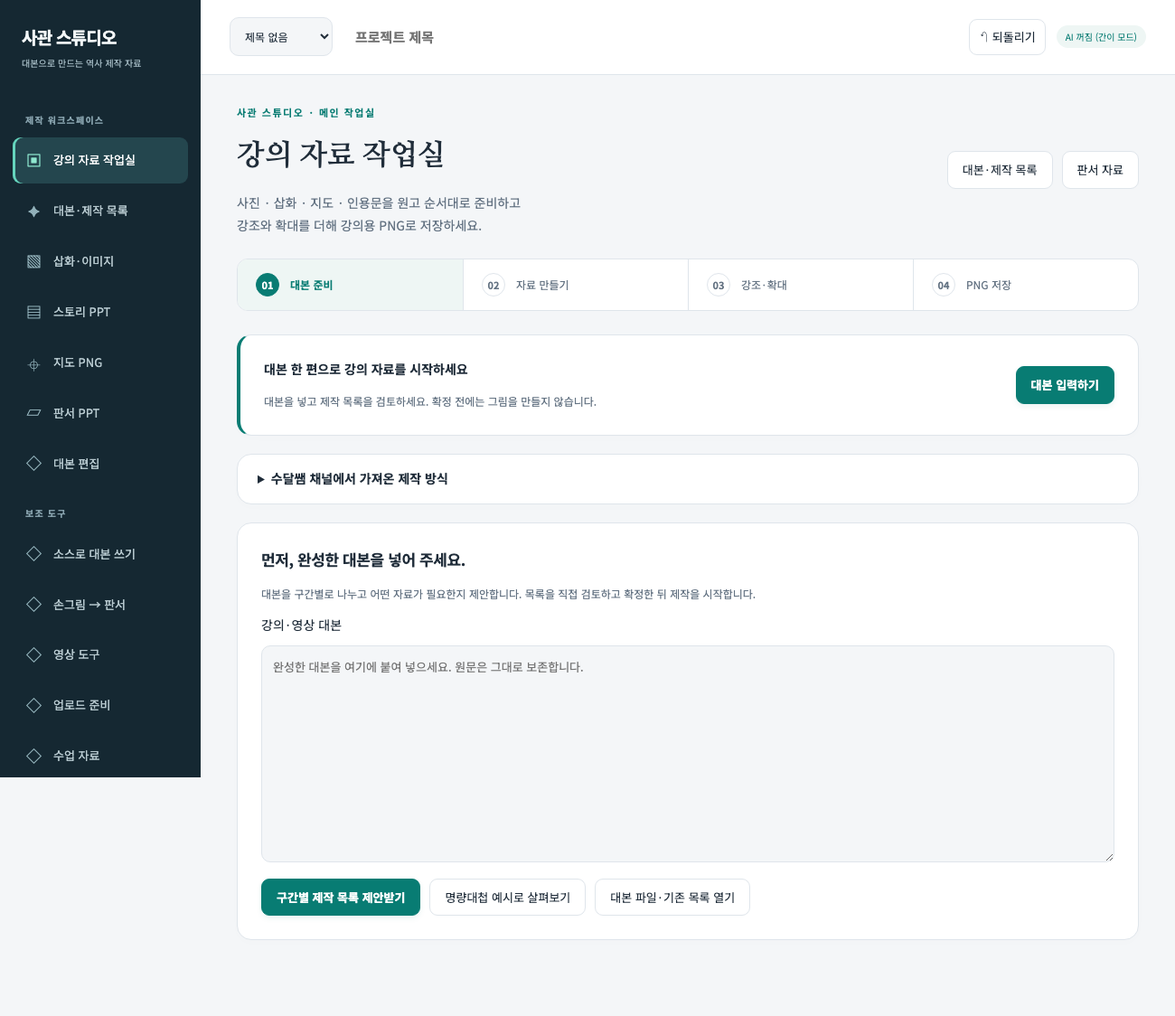
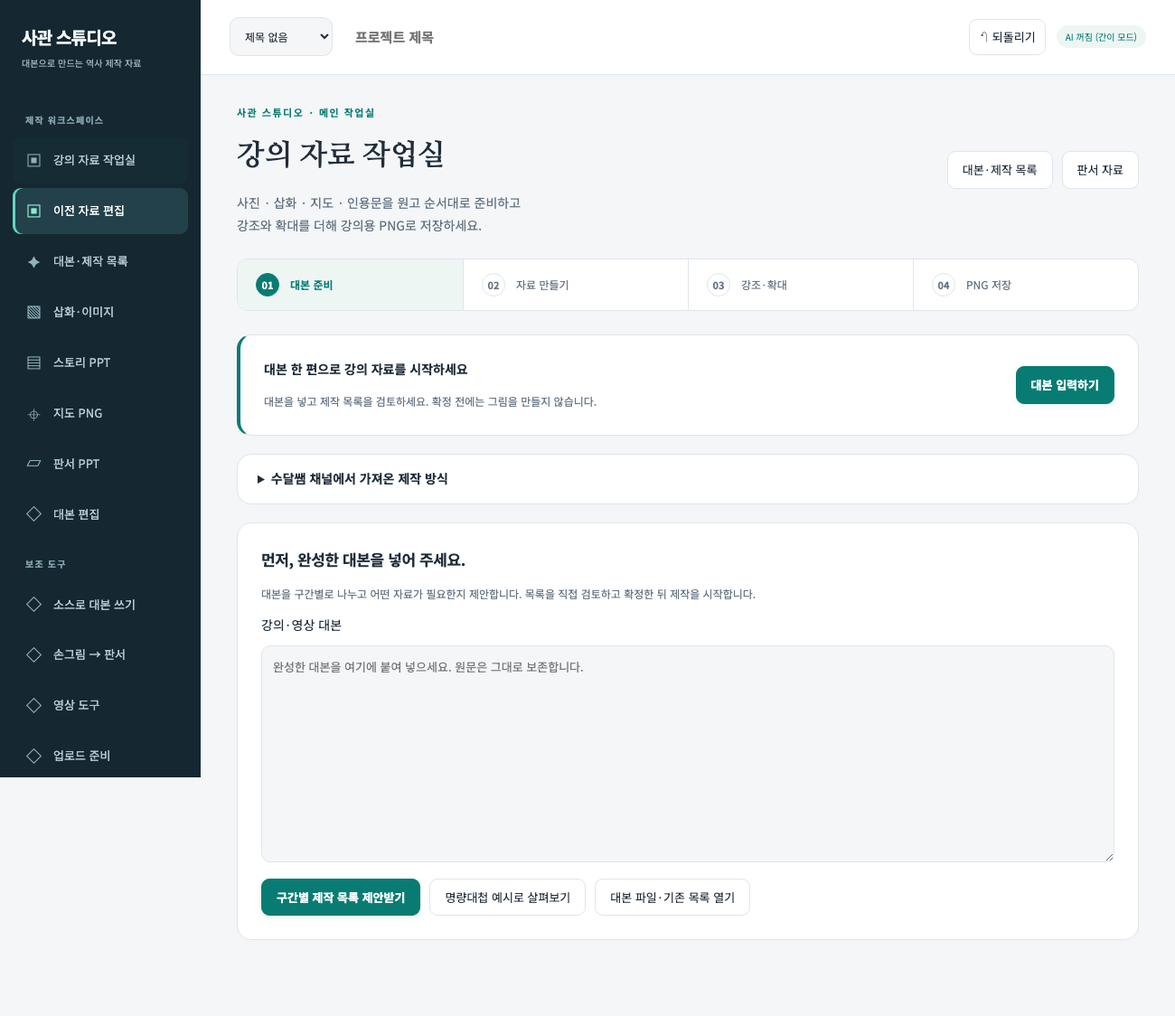
Build semantic scene planning and human-reviewed slide studio

diff --git a/assets/scene-studio-ui.js b/assets/scene-studio-ui.js
@@ -1,0 +1,73 @@
+(function(){
+  'use strict';
+  var HS=window.HS,$=HS.$,selected=0,lastProject=null,busy=false,jobId='',cancelled=false,token='',previewRevision=0;
+  function plan(){return HS.studioDraft();}function current(){return plan().slides[selected];}
+  function message(s,error){$('studio-status').textContent=s;$('studio-status').classList.toggle('err',!!error);}
+  function save(){HS.changed('studio');}
+  function safe(fn){Promise.resolve().then(fn).catch(function(e){message(e.message,true);});}
+  function draw(){
+    var n=++previewRevision,p=plan(),s=current(),c=$('studio-canvas'),x=c.getContext('2d');x.fillStyle='#14242d';x.fillRect(0,0,1920,1080);
+    if(!s)return;
+    HS.studioCanvas(p,s).then(function(result){if(n!==previewRevision||plan()!==p||current()!==s)return;x.drawImage(result,0,0);$('studio-preview-note').textContent=HS.studioReviewed(p,s)?'검토 완료 · 이 화면이 한 장의 슬라이드로 저장됩니다.':'미리보기를 확인하고 검토 완료를 눌러 주세요.';}).catch(function(e){if(n!==previewRevision)return;x.fillStyle='#d7e5e9';x.font='36px sans-serif';x.textAlign='center';x.fillText('장면 내용을 채우면 슬라이드가 나타납니다.',960,540);$('studio-preview-note').textContent=e.message;});
+  }
+  function overview(){
+    var p=plan(),done=p.slides.filter(function(s){return HS.studioReviewed(p,s);}).length;
+    $('studio-progress').textContent=p.mode==='input'?'1. 대본 분석':p.mode==='review'?'2. 장면 구분 검토 · '+p.slides.length+'장면':'3. 장면 만들기 · 검토 완료 '+done+' / '+p.slides.length;
+    $('studio-png-all').disabled=busy||p.mode!=='compose'||done!==p.slides.length||!done;$('studio-ppt-all').disabled=$('studio-png-all').disabled;
+    $('studio-outline').innerHTML=p.slides.map(function(s,i){return '<button type="button" class="btn" data-studio-scene="'+i+'"'+(selected===i?' aria-current="true"':'')+'><b>'+String(i+1).padStart(2,'0')+'. '+HS.esc(s.title)+'</b><small>'+({text:'글',board:'판서',image:'이미지'}[s.type])+' · '+(HS.studioReviewed(p,s)?'검토 완료':HS.studioProblem(s)?'내용 필요':'검토 대기')+'</small></button>';}).join('');
+    if(current())$('studio-review-state').textContent=HS.studioReviewed(p,current())?'✓ 검토 완료':'○ 검토 대기 · 내용을 수정하면 다시 검토해야 합니다.';
+  }
+  HS.renderSceneStudio=function(){
+    if(lastProject!==HS.project){selected=0;lastProject=HS.project;}var p=plan();selected=Math.max(0,Math.min(selected,p.slides.length-1));
+    $('studio-fields').disabled=busy;$('studio-cancel').hidden=!busy||!jobId;$('studio-input').hidden=p.mode!=='input';$('studio-work').hidden=p.mode==='input';
+    $('studio-script').value=p.script;$('studio-method').textContent=p.method;$('studio-return').hidden=!p.slides.length||p.script!==p.analyzedScript;
+    $('studio-boundaries').hidden=p.mode!=='review';$('studio-editor').hidden=p.mode!=='compose';$('studio-confirm-plan').hidden=p.mode!=='review';$('studio-reopen-plan').hidden=p.mode!=='compose';
+    overview();if(!p.slides.length){previewRevision++;return;}var s=current();
+    $('studio-source').open=p.mode==='review';$('studio-original').value=p.script.slice(s.start,s.end);$('studio-reason').textContent=s.reason;
+    $('studio-scene-title').value=s.title;$('studio-type').value=s.type;$('studio-content').value=s.content;$('studio-prompt').value=s.prompt;$('studio-credit').value=s.credit;
+    $('studio-content-label').hidden=s.type==='image';$('studio-image-editor').hidden=s.type!=='image';$('studio-content-help').textContent=s.type==='board'?'줄마다 판서 항목을 쓰세요. *핵심어는 노란색, !주의는 분홍색, -는 들여쓰기입니다.':'슬라이드에 보여 줄 핵심 문장을 직접 다듬어 주세요. 원고 전체는 발표자 노트에 보존됩니다.';
+    $('studio-prev').disabled=selected===0;$('studio-next').disabled=selected===p.slides.length-1;$('studio-merge').disabled=selected===p.slides.length-1;
+    $('studio-candidates').innerHTML=(s.candidates||[]).map(function(im,i){return '<button type="button" class="btn" data-studio-candidate="'+i+'"><img src="'+HS.esc(im.image)+'" alt="이전 그림 '+(i+1)+'">이 그림으로 복원</button>';}).join('');draw();
+  };
+  async function protectedChange(label,fn){var project=HS.project,p=plan(),before=JSON.stringify(p);await HS.snapshot(label,true);if(HS.project!==project||plan()!==p||JSON.stringify(p)!==before)throw new Error('저장 중 프로젝트나 내용이 바뀌었습니다. 다시 시도해 주세요.');fn();save();HS.renderSceneStudio();}
+  async function api(url,method,data){var r=await fetch(url,{method:method||'GET',headers:{'X-Studio-Token':token,'Content-Type':'application/json'},body:data?JSON.stringify(data):undefined}),v=await r.json();if(!r.ok)throw new Error(v.error||'연결 실패');return v;}
+  async function runCodex(kind,prompt){
+    if(location.protocol==='file:')throw new Error('Codex 분석·생성은 로컬 실행 앱에서 가능합니다. 사관 스튜디오 실행.command로 열어 주세요.');
+    var session=await fetch('/api/session');if(!session.ok)throw new Error('앱 실행 프로그램을 다시 시작해 주세요.');token=(await session.json()).token;
+    var st=await api('/api/status');if(!st.ready)throw new Error(st.message||'Codex 로그인 상태를 확인해 주세요.');if(cancelled)throw new Error('작업을 중단했습니다.');
+    var job=await api('/api/jobs','POST',{kind:kind,prompt:prompt});jobId=job.id;$('studio-cancel').hidden=false;
+    if(cancelled)await api('/api/jobs/'+jobId,'DELETE');
+    while(true){var result=await api('/api/jobs/'+jobId);message(result.message);if(result.state==='done')return result;if(result.state!=='running')throw new Error(result.message);await new Promise(function(r){setTimeout(r,1200);});}
+  }
+  async function job(fn){if(busy)return;busy=true;cancelled=false;HS.renderSceneStudio();message('작업을 준비하고 있습니다…');try{await fn();}catch(e){message(e.message,true);}finally{busy=false;jobId='';$('studio-cancel').hidden=true;HS.renderSceneStudio();}}
+  $('studio-script').oninput=function(){plan().script=this.value;save();$('studio-return').hidden=plan().script!==plan().analyzedScript;};
+  $('studio-import-script').onclick=function(){safe(async function(){var text=(HS.project.materials&&HS.project.materials.script)||HS.project.source;if(!text)throw new Error('기존 대본이 없습니다. 직접 붙여 넣어 주세요.');if(plan().script.trim()&&!confirm('현재 입력칸을 기존 프로젝트 대본으로 바꿀까요?'))return;await protectedChange('대본 불러오기 전',function(){plan().script=text;});});};
+  $('studio-sample').onclick=function(){safe(async function(){if(plan().script.trim()&&!confirm('입력칸을 명량대첩 예시로 바꿀까요?'))return;await protectedChange('예시 대본 입력 전',function(){plan().script=window.MATERIAL_SAMPLE;});});};
+  function analyze(ai){job(async function(){var project=HS.project,p=plan(),script=p.script,units=HS.studioUnits(script),before=JSON.stringify(p);await HS.snapshot('대본 장면 분석 전',true);
+    var result=ai?HS.studioAnalyzeResult(script,(await runCodex('analysis',JSON.stringify({units:units.map(function(u){return u.text;})}))).plan):HS.studioParagraphPlan(script);
+    if(cancelled||HS.project!==project||plan()!==p||JSON.stringify(p)!==before)throw new Error('분석 중 대본이나 프로젝트가 바뀌어 적용하지 않았습니다.');HS.project.studio=result;selected=0;save();message('장면을 제안했습니다. 원고 경계와 설명 단위를 검토한 뒤 장면 만들기로 전환하세요.');});}
+  $('studio-analyze').onclick=function(){analyze(true);};$('studio-paragraph').onclick=function(){analyze(false);};
+  $('studio-cancel').onclick=function(){cancelled=true;message('중단을 요청했습니다…');if(jobId)api('/api/jobs/'+jobId,'DELETE').catch(function(e){message(e.message,true);});};
+  $('studio-outline').onclick=function(e){var b=e.target.closest('[data-studio-scene]');if(b){selected=+b.dataset.studioScene;HS.renderSceneStudio();}};
+  $('studio-prev').onclick=function(){selected--;HS.renderSceneStudio();};$('studio-next').onclick=function(){selected++;HS.renderSceneStudio();};
+  $('studio-split').onclick=function(){var cut=$('studio-original').selectionStart;safe(function(){return protectedChange('장면 나누기 전',function(){HS.studioSplit(plan(),selected,cut);});});};
+  $('studio-merge').onclick=function(){safe(function(){return protectedChange('장면 합치기 전',function(){HS.studioMerge(plan(),selected);});});};
+  $('studio-confirm-plan').onclick=function(){safe(function(){return protectedChange('장면 만들기 전환 전',function(){HS.studioValidate(plan());plan().mode='compose';});});};
+  $('studio-reopen-plan').onclick=function(){safe(function(){return protectedChange('장면 구분 재검토 전',function(){plan().mode='review';});});};
+  $('studio-edit-script').onclick=function(){safe(function(){return protectedChange('대본 다시 입력 전',function(){plan().backMode=plan().mode;plan().mode='input';});});};
+  $('studio-return').onclick=function(){if(plan().slides.length&&plan().script===plan().analyzedScript){plan().mode=plan().backMode||'review';save();HS.renderSceneStudio();}};
+  ['scene-title','content','prompt','credit'].forEach(function(k){$('studio-'+k).oninput=function(){var s=current();s[k==='scene-title'?'title':k]=this.value;s.reviewed='';save();overview();draw();};});
+  $('studio-type').onchange=function(){current().type=this.value;current().reviewed='';save();HS.renderSceneStudio();};
+  function attach(s,image){if(s.image){s.candidates=s.candidates||[];s.candidates.unshift({image:s.image,prompt:s.imagePrompt});s.candidates=s.candidates.slice(0,3);}s.image=image;s.imagePrompt=s.prompt;s.reviewed='';}
+  $('studio-generate').onclick=function(){job(async function(){var project=HS.project,p=plan(),s=current(),before=JSON.stringify(s);HS.studioValidate(p);if(p.mode!=='compose')throw new Error('장면 구분을 먼저 확정해 주세요.');if(!s.prompt.trim())throw new Error('이미지 제작 지시를 넣어 주세요.');await HS.snapshot('장면 이미지 생성 전',true);
+    var result=await runCodex('image','Educational historical illustration for exactly one slide. No text or labels. Do not invent historical details as facts.\n'+JSON.stringify({scene:s.title,narration:p.script.slice(s.start,s.end),visualDescription:s.prompt}));await HS.loadImage(result.image);
+    $('studio-result-link').href=result.image;$('studio-result-link').hidden=false;
+    if(cancelled||HS.project!==project||plan()!==p||JSON.stringify(s)!==before)throw new Error('제작 중 프로젝트나 장면이 바뀌었습니다. 완성 그림은 별도 PNG 링크로 저장하세요.');attach(s,result.image);s.credit='AI 재현 삽화 · 역사적 세부 확인 필요';save();message('이 장면의 그림을 만들었습니다. 역사적 표현을 확인한 뒤 검토 완료를 누르세요.');});};
+  $('studio-image-file').onchange=function(){var f=this.files[0];this.value='';if(!f)return;job(async function(){if(!/^image\/(png|jpeg|webp)$/.test(f.type)||f.size>20*1024*1024)throw new Error('PNG·JPG·WebP 파일을 20MB 이하로 넣어 주세요.');var project=HS.project,p=plan(),s=current(),before=JSON.stringify(s);var image=await HS.shrinkImage(await HS.readFile(f),2400,'image/png');if(HS.project!==project||plan()!==p||JSON.stringify(s)!==before)throw new Error('불러오는 동안 장면이 바뀌었습니다.');await protectedChange('장면 사진 변경 전',function(){attach(s,image);s.credit='';});message('사진을 넣었습니다. 출처를 기록하고 검토해 주세요.');});};
+  $('studio-candidates').onclick=function(e){var b=e.target.closest('[data-studio-candidate]');if(!b)return;safe(function(){return protectedChange('장면 이전 그림 복원 전',function(){var s=current(),old=s.candidates[+b.dataset.studioCandidate];s.prompt=old.prompt;attach(s,old.image);s.credit='출처 다시 확인 필요';});});};
+  $('studio-review-done').onclick=function(){job(async function(){var p=plan(),s=current(),before=HS.studioFingerprint(p,s);await HS.studioCanvas(p,s);if(plan()!==p||current()!==s||HS.studioFingerprint(p,s)!==before)throw new Error('검토 중 자료가 바뀌었습니다.');s.reviewed=before;save();var next=p.slides.findIndex(function(item,i){return i>selected&&!HS.studioReviewed(p,item);});if(next<0)next=p.slides.findIndex(function(item){return !HS.studioReviewed(p,item);});if(next>=0)selected=next;message(next>=0?'검토 완료로 표시하고 다음 미검토 장면으로 이동했습니다.':'모든 장면 검토가 끝났습니다. 슬라이드를 저장하세요.');});};
+  $('studio-png-one').onclick=function(){job(async function(){var p=plan(),s=current(),i=selected;if(!HS.studioReviewed(p,s))throw new Error('현재 장면을 먼저 검토 완료해 주세요.');var c=await HS.studioCanvas(p,JSON.parse(JSON.stringify(s))),name=String(i+1).padStart(2,'0')+' '+s.title.replace(/[\\/:*?"<>|]/g,'')+'.png';HS.download(name,await HS.teachingBlob(c));message('슬라이드 PNG를 저장했습니다.');});};
+  $('studio-png-all').onclick=function(){job(async function(){await HS.exportStudio('png');message('한 장면당 한 PNG로 저장했습니다.');});};$('studio-ppt-all').onclick=function(){job(async function(){await HS.exportStudio('ppt');message('한 장면당 한 슬라이드로 저장했습니다. 원고는 발표자 노트에 있습니다.');});};
+  HS.onChange(function(what){if(what==='all')return;if(what==='studio'&&$('tab-studio').classList.contains('on'))overview();});
+  window.addEventListener('beforeunload',function(e){if(busy){e.preventDefault();e.returnValue='';}});
+})();

diff --git a/assets/scene-studio.js b/assets/scene-studio.js
@@ -1,0 +1,70 @@
+/* 대본 원문 → 의미 단위 검토 → 장면마다 한 슬라이드 → 사람 검토. */
+(function(){
+  'use strict';
+  var HS=window.HS;
+  function copy(x){return JSON.parse(JSON.stringify(x));}
+  function id(){return 'slide-'+Date.now().toString(36)+'-'+Math.random().toString(36).slice(2,9);}
+  HS.studioDraft=function(){return HS.project.studio||(HS.project.studio={script:'',analyzedScript:'',method:'',mode:'input',slides:[]});};
+  HS.studioUnits=function(script){
+    if(typeof script!=='string'||!script.trim()||script.length>12000)throw new Error('대본은 1~12,000자로 넣어 주세요. 긴 대본은 편별로 나누어 주세요.');
+    var units=[],start=0,re=/[.!?。]+[”’"']?(?:\s+|$)|\n\s*\n/g,m;
+    while((m=re.exec(script))){var end=m.index+m[0].length;if(script.slice(start,end).trim()){units.push({start:start,end:end,text:script.slice(start,end)});start=end;}}
+    if(start<script.length){if(script.slice(start).trim())units.push({start:start,end:script.length,text:script.slice(start)});else if(units.length){units[units.length-1].end=script.length;units[units.length-1].text=script.slice(units[units.length-1].start);}}
+    if(units.length>500)throw new Error('문장이 너무 많습니다. 대본을 나누어 주세요.');return units;
+  };
+  function slide(start,end,title,reason,type,content,prompt){return {id:id(),start:start,end:end,title:title,reason:reason,type:type,content:content||'',prompt:prompt||'',image:null,imagePrompt:'',credit:'',reviewed:'',candidates:[]};}
+  HS.studioAnalyzeResult=function(script,result){
+    var units=HS.studioUnits(script),last=0;
+    if(!result||!Array.isArray(result.scenes)||!result.scenes.length||result.scenes.length>80)throw new Error('분석 결과의 장면 목록을 확인할 수 없습니다.');
+    var slides=result.scenes.map(function(g){
+      if(!Number.isInteger(g.end)||g.end<=last||g.end>units.length||!['text','board','image'].includes(g.type)||typeof g.title!=='string'||!g.title.trim()||g.title.length>100||typeof g.reason!=='string'||g.reason.length>500||typeof g.content!=='string'||g.content.length>1200||typeof g.prompt!=='string'||g.prompt.length>2000)throw new Error('분석 결과의 범위나 형식이 올바르지 않습니다. 원문은 변경하지 않았습니다.');
+      var s=slide(units[last].start,units[g.end-1].end,g.title,g.reason,g.type,g.content,g.prompt);last=g.end;return s;
+    });
+    if(last!==units.length)throw new Error('분석 결과에 빠진 원고가 있습니다. 다시 분석해 주세요.');
+    return {script:script,analyzedScript:script,method:'Codex 의미 분석 · 사람 검토 필요',mode:'review',slides:slides};
+  };
+  HS.studioParagraphPlan=function(script){
+    HS.studioUnits(script);var start=0,slides=[],re=/\n\s*\n/g,m;
+    function add(end){var text=script.slice(start,end);if(text.trim()){slides.push(slide(start,end,text.trim().split(/[.!?。\n]/)[0].slice(0,60),'문단 경계로 나눈 초안입니다. 한 가지 설명인지 직접 확인하세요.','text','',''));start=end;}}
+    while((m=re.exec(script)))add(m.index+m[0].length);add(script.length);
+    if(start<script.length&&slides.length)slides[slides.length-1].end=script.length;
+    if(slides.length>80)throw new Error('80장면 이하로 대본을 나누어 주세요.');
+    return {script:script,analyzedScript:script,method:'문단 기준 초안 · AI 의미 분석 아님',mode:'review',slides:slides};
+  };
+  HS.studioValidate=function(p){
+    if(!p||p.script!==p.analyzedScript||!p.slides.length)throw new Error('바뀐 대본을 다시 분석해 주세요.');
+    var end=0;p.slides.forEach(function(s){if(s.start!==end||s.end<=s.start||s.end>p.script.length||!p.script.slice(s.start,s.end).trim())throw new Error('장면 범위에 누락 또는 겹침이 있습니다.');end=s.end;});
+    if(end!==p.script.length)throw new Error('장면에 포함되지 않은 원고가 있습니다.');return true;
+  };
+  HS.studioSplit=function(p,i,offset){
+    HS.studioValidate(p);if(p.mode!=='review')throw new Error('장면 구분 검토 모드에서 나누세요.');if(p.slides.length>=80)throw new Error('장면은 80개까지 만들 수 있습니다.');
+    var s=p.slides[i],cut=s.start+offset;if(!Number.isInteger(offset)||cut<=s.start||cut>=s.end||!p.script.slice(s.start,cut).trim()||!p.script.slice(cut,s.end).trim()||/[\uD800-\uDBFF]/.test(p.script[cut-1]))throw new Error('원고에서 앞뒤 내용이 남는 위치에 커서를 놓으세요.');
+    var a=slide(s.start,cut,s.title,'사람이 나눈 장면','text','',''),b=slide(cut,s.end,s.title+' (계속)','사람이 나눈 장면','text','','');p.slides.splice(i,1,a,b);
+  };
+  HS.studioMerge=function(p,i){HS.studioValidate(p);if(p.mode!=='review'||!p.slides[i+1])throw new Error('검토 모드에서 다음 장면이 있을 때 합칠 수 있습니다.');var a=p.slides[i],b=p.slides[i+1];p.slides.splice(i,2,slide(a.start,b.end,a.title,'사람이 합친 장면','text','',''));};
+  HS.studioFingerprint=function(p,s){var str=JSON.stringify([p.script.slice(s.start,s.end),s.title,s.type,s.content,s.prompt,s.image,s.credit]),h=2166136261;for(var i=0;i<str.length;i++)h=Math.imul(h^str.charCodeAt(i),16777619);return (h>>>0).toString(16)+':'+str.length;};
+  HS.studioReviewed=function(p,s){return !!s.reviewed&&s.reviewed===HS.studioFingerprint(p,s);};
+  HS.studioProblem=function(s){if(!s.title.trim())return '슬라이드 제목을 넣으세요.';if(s.type==='image'){if(!s.image)return '이 장면의 이미지를 생성하거나 불러오세요.';if(s.imagePrompt!==s.prompt)return '이미지 제작 지시가 바뀌었습니다. 다시 생성하거나 사진을 불러오세요.';}else if(!s.content.trim())return '슬라이드에 넣을 글이나 판서 내용을 채우세요.';return '';};
+  function textBlock(ctx,text,x,y,w,h,size,color){var lines;do{ctx.font='500 '+size+'px "Noto Sans KR",sans-serif';lines=HS.wrap(ctx,text,w);if(lines.length*size*1.5<=h)break;size-=2;}while(size>=24);if(size<24)throw new Error('한 슬라이드에 글이 너무 많습니다. 내용을 줄이거나 장면을 나누세요.');ctx.fillStyle=color;ctx.textBaseline='top';ctx.textAlign='left';lines.forEach(function(line,i){ctx.fillText(line,x,y+i*size*1.5);});}
+  HS.studioCanvas=function(p,s){
+    var problem=HS.studioProblem(s);if(problem)return Promise.reject(new Error(problem));var c=document.createElement('canvas');c.width=1920;c.height=1080;var x=c.getContext('2d');
+    if(s.type==='board')HS.drawBoardBg(x,1920,1080,'board',s.id);else{x.fillStyle='#14242d';x.fillRect(0,0,1920,1080);}
+    try{textBlock(x,s.title,110,85,1700,180,66,s.type==='board'?'#f6e27a':'#ffffff');}catch(e){return Promise.reject(e);}
+    var work=Promise.resolve();
+    if(s.type==='image')work=HS.loadImage(s.image).then(function(im){var q=Math.min(1700/im.width,700/im.height);x.drawImage(im,110+(1700-im.width*q)/2,275+(700-im.height*q)/2,im.width*q,im.height*q);});
+    else try{
+      if(s.type==='board'){
+        var rows=s.content.split('\n').map(HS.parseBoardLine),plain=rows.map(function(r){return r.text;}).join('\n'),size=54,lines;
+        do{x.font='500 '+size+'px "Noto Sans KR",sans-serif';lines=rows.map(function(r){return HS.wrap(x,r.text,1640-Math.min(r.indent,4)*40);});if(lines.reduce(function(n,a){return n+a.length;},0)*size*1.5<=680)break;size-=2;}while(size>=24);
+        if(size<24)throw new Error('판서가 한 장에 너무 많습니다. 내용을 줄이거나 장면을 나누세요.');
+        var y=290;x.textBaseline='top';rows.forEach(function(r,i){x.fillStyle=HS.CHALK[r.color]||'#fff';lines[i].forEach(function(line){x.fillText(line,130+Math.min(r.indent,4)*40,y);y+=size*1.5;});});
+      }else textBlock(x,s.content,110,290,1700,680,54,'#ecf3f5');
+    }catch(e){return Promise.reject(e);}
+    return work.then(function(){if(s.credit)textBlock(x,s.credit,110,1000,1700,45,26,'#bbcbd0');return c;});
+  };
+  HS.exportStudio=function(format,noDownload){
+    var p=copy(HS.studioDraft());try{HS.studioValidate(p);if(p.mode!=='compose'||p.slides.some(function(s){return !HS.studioReviewed(p,s);}))throw new Error('모든 장면을 검토 완료한 뒤 저장해 주세요.');}catch(e){return Promise.reject(e);}
+    var zip=new JSZip(),ppt=new window.PptxGenJS();ppt.layout='LAYOUT_WIDE';var report=[];
+    return p.slides.reduce(function(chain,s,i){return chain.then(function(){return HS.studioCanvas(p,s).then(function(c){var name=String(i+1).padStart(2,'0')+' '+s.title.replace(/[\\/:*?"<>|]/g,'').slice(0,60)+'.png';report.push({file:name,title:s.title,type:s.type,script:p.script.slice(s.start,s.end),credit:s.credit});if(format==='ppt'){var sl=ppt.addSlide();sl.addImage({data:c.toDataURL(),x:0,y:0,w:13.333333,h:7.5});sl.addNotes(p.script.slice(s.start,s.end)+'\n\n출처: '+s.credit);}else return HS.teachingBlob(c).then(function(b){zip.file(name,b);});});});},Promise.resolve()).then(function(){if(format==='ppt')return ppt.write({outputType:'blob'});zip.file('장면과 원고.json',JSON.stringify(report,null,2));return zip.generateAsync({type:'blob'});}).then(function(b){if(!noDownload)HS.download(format==='ppt'?'검토 완료 슬라이드.pptx':'검토 완료 슬라이드 PNG.zip',b);return b;});
+  };
+})();

diff --git a/index.html b/index.html
@@ -133,7 +133,8 @@ table.places input{ width:100%; padding:4px 6px; }
 </header>
 <nav id="tabs" aria-label="스튜디오 도구">
   <span class="nav-label">제작 워크스페이스</span>
-  <button data-tab="teaching" class="on">강의 자료 작업실</button>
+  <button data-tab="studio" class="on">강의 자료 작업실</button>
+  <button data-tab="teaching">이전 자료 편집</button>
   <button data-tab="materials">대본·제작 목록</button>
   <button data-tab="shots">삽화·이미지</button>
   <button data-tab="story">스토리 PPT</button>
@@ -149,6 +150,26 @@ table.places input{ width:100%; padding:4px 6px; }
   <button data-tab="settings">설정</button>
 </nav>
 <main>
+<section class="tab on" id="tab-studio">
+  <div class="studio-heading"><div><span class="hero-eyebrow">대본에서 한 장면씩 · 사람이 완성하는 슬라이드</span><h2>강의 자료 작업실</h2><p class="lead">의미 단위로 나누고, 한 장면을 한 슬라이드로.<br>글·판서·AI 이미지를 채우며 하나씩 검토합니다.</p></div><button class="btn" data-go="teaching">이전 자료 작업 열기</button></div>
+  <div class="card row studio-progress-bar"><strong id="studio-progress"></strong><button class="btn" id="studio-cancel" hidden>Codex 작업 중단</button><a id="studio-result-link" download="생성된 장면.png" hidden>최근 생성 그림 별도 PNG 저장</a></div>
+  <p id="studio-status" class="status" role="status" aria-live="polite"></p>
+  <fieldset id="studio-fields">
+    <div class="card" id="studio-input"><h3>1. 대본을 분석합니다</h3><p class="small">Codex가 설명 주제·사건·전환점을 보고 장면을 제안합니다. 원문은 바꾸지 않으며, 다음 단계에서 나누거나 합칠 수 있습니다.</p><label for="studio-script">완성 대본 · 최대 12,000자</label><textarea id="studio-script" maxlength="12000" placeholder="강의할 대본을 붙여 넣으세요."></textarea><div class="row"><button class="btn primary" id="studio-analyze">Codex로 의미 단위 분석</button><button class="btn" id="studio-paragraph">연결 없이 문단 초안 만들기</button><button class="btn" id="studio-import-script">기존 프로젝트 대본 가져오기</button><button class="btn" id="studio-sample">명량대첩 예시</button><button class="btn" id="studio-return" hidden>기존 장면으로 돌아가기</button></div><p class="small">Codex 분석·이미지 생성에는 로컬 앱과 ChatGPT 구독 로그인이 필요합니다. 문단 초안은 AI 의미 분석이 아니며 직접 경계를 검토해야 합니다.</p></div>
+    <div id="studio-work" hidden>
+      <div class="card row"><span id="studio-method" class="small"></span><button class="btn" id="studio-edit-script">대본 다시 분석</button><button class="btn" id="studio-reopen-plan">장면 구분 다시 검토</button><button class="btn primary" id="studio-confirm-plan">구분 확정 → 장면 만들기</button><button class="btn" id="studio-png-all">검토 완료 PNG 묶음</button><button class="btn" id="studio-ppt-all">슬라이드 PPT</button></div>
+      <div class="scene-studio-layout"><aside class="card studio-outline"><h3>장면 목록</h3><p class="small">장면 1개 = 슬라이드 1장</p><div id="studio-outline"></div></aside><div class="studio-main">
+        <article class="card"><div class="row"><button class="btn" id="studio-prev">← 이전 장면</button><button class="btn" id="studio-next">다음 장면 →</button><span id="studio-review-state" class="small"></span></div><label for="studio-scene-title">슬라이드 제목</label><input id="studio-scene-title" type="text" maxlength="100"><p id="studio-reason" class="small"></p><details id="studio-source"><summary>이 장면의 원고 보기 · 원문 보존</summary><label for="studio-original">장면에 해당하는 원고</label><textarea id="studio-original" readonly></textarea></details><div id="studio-boundaries"><p class="small">원고에서 나눌 위치를 눌러 커서를 놓으세요. 나누기·합치기는 해당 장면의 슬라이드 내용을 비우며, 변경 전 상태는 상단 되돌리기에 남습니다.</p><div class="row"><button class="btn" id="studio-split">커서 위치에서 나누기</button><button class="btn" id="studio-merge">다음 장면과 합치기</button></div></div></article>
+        <div id="studio-editor">
+          <article class="card"><h3>이 장면은 무엇으로 설명할까요?</h3><label>슬라이드 표현<select id="studio-type"><option value="text">글 · 핵심 문장</option><option value="board">판서 · 개념과 흐름</option><option value="image">이미지 · AI 삽화 또는 사진</option></select></label><label id="studio-content-label">슬라이드 내용<textarea id="studio-content" maxlength="1200" placeholder="이 장면에서 전달할 내용을 직접 다듬으세요."></textarea><span id="studio-content-help" class="small"></span></label>
+          <div id="studio-image-editor" hidden><label>이 장면의 이미지 제작 지시<textarea id="studio-prompt" maxlength="2000" placeholder="인물·시대·장소·구도·보여 줄 핵심을 적어 주세요."></textarea></label><div class="row"><button class="btn primary" id="studio-generate">이 장면만 Codex로 생성</button><label class="btn">사진·완성 그림 넣기<input type="file" id="studio-image-file" accept="image/png,image/jpeg,image/webp" hidden></label></div><p class="small">다른 장면은 자동 생성하지 않습니다. 다시 생성하면 이전 그림은 최대 3개까지 후보로 남깁니다. 제작 지시를 바꾸면 이미지를 다시 준비해야 합니다.</p><div id="studio-candidates"></div></div><label>출처·제작 메모<input id="studio-credit" type="text" maxlength="180" placeholder="인용 출처, 직접 촬영, AI 재현 여부 등을 적어 주세요."></label></article>
+          <article class="card studio-preview"><h3>슬라이드 미리보기</h3><canvas id="studio-canvas" width="1920" height="1080" aria-label="현재 장면의 한 장짜리 슬라이드"></canvas><p id="studio-preview-note" class="small"></p><p class="small">내용·역사적 표현·출처를 직접 확인하세요. 수정하면 검토 대기로 돌아갑니다.</p><div class="row"><button class="btn primary" id="studio-review-done">검토 완료하고 다음 장면</button><button class="btn" id="studio-png-one">현재 슬라이드 PNG</button></div></article>
+        </div>
+      </div></div>
+    </div>
+  </fieldset>
+</section>
+
 <section class="tab" id="tab-materials">
   <div class="material-hero"><div class="hero-copy"><span class="hero-eyebrow">HISTORY · CREATIVE STUDIO</span><h2>대본과 제작 목록 준비</h2><p class="lead">원고를 구간별로 나누고 자료 종류를 검토하세요.<br>확정한 자료는 강의 자료 작업실에서 다듬습니다.</p></div><div class="hero-art" aria-hidden="true"><div class="hero-sheet"><i></i><i></i><i></i><i></i><i></i></div><div class="hero-picture"></div></div></div>
   <ol class="workflow-path" aria-label="자료 제작 순서"><li id="workflow-input" aria-current="step"><b>01</b> 대본 입력</li><li id="workflow-review"><b>02</b> 목록 검토</li><li id="workflow-output"><b>03</b> 자료 제작</li></ol>
@@ -178,7 +199,7 @@ table.places input{ width:100%; padding:4px 6px; }
   <p id="material-status" class="status" role="status" aria-live="polite"></p>
 </section>
 
-<section class="tab on" id="tab-teaching">
+<section class="tab" id="tab-teaching">
   <div class="teaching-home-header"><div><span class="hero-eyebrow">사관 스튜디오 · 메인 작업실</span><h2>강의 자료 작업실</h2><p class="lead">사진 · 삽화 · 지도 · 인용문을 원고 순서대로 준비하고<br>강조와 확대를 더해 강의용 PNG로 저장하세요.</p></div><div class="row"><button class="btn" data-go="materials">대본·제작 목록</button><button class="btn" data-go="board">판서 자료</button></div></div>
   <ol class="workflow-path teaching-path" aria-label="강의 자료 작업 순서"><li id="teaching-step-plan"><b>01</b> 대본 준비</li><li id="teaching-step-make"><b>02</b> 자료 만들기</li><li id="teaching-step-refine"><b>03</b> 강조·확대</li><li id="teaching-step-export"><b>04</b> PNG 저장</li></ol>
   <div class="card teaching-overview"><div><strong id="teaching-project-status"></strong><p id="teaching-next-hint" class="small"></p></div><button class="btn primary" id="teaching-next-action">작업 시작</button></div>
@@ -636,6 +657,8 @@ table.places input{ width:100%; padding:4px 6px; }
 <script src="assets/codex-cli.js"></script>
 <script src="assets/teaching.js"></script>
 <script src="assets/teaching-ui.js"></script>
+<script src="assets/scene-studio.js"></script>
+<script src="assets/scene-studio-ui.js"></script>
 <script src="assets/ui.js"></script>
 </body>
 </html>

diff --git a/assets/studio.css b/assets/studio.css
@@ -36,3 +36,7 @@ textarea,input[type=text],input[type=password],select{background:var(--bg);borde
 .teaching-home-header{display:flex;justify-content:space-between;align-items:center;gap:20px;margin-bottom:24px}.teaching-home-header h2{font-size:32px;margin:0 0 12px}.teaching-home-header .lead{margin:0}.teaching-path{grid-template-columns:repeat(4,1fr)}.teaching-overview{display:flex;align-items:center;justify-content:space-between;gap:16px;border-left:4px solid var(--accent)}.teaching-overview p{margin-bottom:0}.teaching-start textarea{width:100%;min-height:240px;display:block;margin:10px 0 18px}.teaching-filter{margin:16px 0}.teaching-filter input{max-width:100%;width:230px}.teaching-current>p:not(.small){white-space:pre-wrap;max-height:160px;overflow:auto;line-height:1.9}.teaching-current .hero-eyebrow{margin-bottom:8px}.teaching-scene-bar #teaching-scene{max-width:280px}.teaching-readiness button small{display:block;color:var(--muted);margin-top:6px;font-weight:400}.teaching-readiness .btn{display:block}.teaching-overview .btn{flex-shrink:0}@media(max-width:820px){.teaching-home-header{align-items:flex-start;flex-direction:column}.teaching-home-header h2{font-size:27px}.teaching-overview{align-items:flex-start;flex-direction:column}.teaching-path{grid-template-columns:repeat(2,1fr)}.teaching-path li:nth-child(3){border-left:0;border-top:1px solid var(--line)}.teaching-path li:nth-child(4){border-top:1px solid var(--line)}}
 
 .teaching-filter input[type=search]{padding:10px 12px;border:1px solid var(--line);border-radius:8px;background:var(--bg);color:var(--ink);font:inherit}.has-scenes .teaching-guide{display:none}.has-scenes .teaching-home-header .lead{display:none}.has-scenes .teaching-home-header h2{font-size:26px}.has-scenes .teaching-home-header{margin-bottom:16px}
+
+#studio-fields{border:0;padding:0;margin:0;min-width:0}.studio-heading{display:flex;justify-content:space-between;align-items:center;gap:20px;margin-bottom:22px}.studio-heading h2{margin:0 0 12px}.studio-heading .lead{margin:0}.studio-progress-bar strong{flex:1}#studio-input textarea{width:100%;min-height:290px;margin:10px 0 18px}.scene-studio-layout{display:grid;grid-template-columns:250px minmax(0,1fr);gap:20px;align-items:start}.studio-outline{position:sticky;top:100px;max-height:calc(100vh - 130px);overflow:auto}#studio-outline{display:grid;gap:8px}#studio-outline button{display:block;text-align:left;white-space:normal;line-height:1.7}#studio-outline small{display:block;color:var(--muted)}#studio-outline [aria-current=true]{border-color:var(--accent);background:var(--soft)}.studio-main{min-width:0}.studio-main label{display:block;margin:14px 0 8px}.studio-main input[type=text],.studio-main textarea,.studio-main select{width:100%;display:block;margin-top:8px}.studio-main textarea{min-height:155px}#studio-original{min-height:180px;line-height:1.8}#studio-content{min-height:200px}.studio-preview canvas{width:100%;display:block}#studio-candidates{display:flex;gap:10px;overflow:auto;margin-top:12px}#studio-candidates button{flex:0 0 140px}#studio-candidates img{width:120px;height:80px;object-fit:contain;display:block}#tabs button[data-tab=studio]::before{content:'▣'}@media(max-width:1000px){.scene-studio-layout{grid-template-columns:minmax(0,1fr)}.studio-outline{position:static;max-height:260px}#studio-outline{grid-template-columns:repeat(auto-fit,minmax(170px,1fr))}}@media(max-width:600px){.studio-heading{display:block}.studio-heading>.btn{margin-top:14px}.studio-heading h2{font-size:26px}}
+
+#studio-source{margin-top:14px}#studio-source summary{cursor:pointer;color:var(--muted);font-size:12px}#studio-editor{display:grid;grid-template-columns:minmax(230px,.9fr) minmax(0,1.1fr);gap:16px;align-items:start}#studio-editor .studio-preview{position:sticky;top:100px}#studio-editor .card{padding:20px}@media(max-width:1200px){#studio-editor{grid-template-columns:minmax(0,1fr)}#studio-editor .studio-preview{position:static}}

diff --git a/assets/ui.js b/assets/ui.js
@@ -2,7 +2,7 @@
 (function(){
   'use strict';
   var HS = window.HS, $ = HS.$, P = function(){ return HS.project; };
-  var current = 'teaching';
+  var current = 'studio';
 
   function status(id, msg, err){ var el = $(id); if(!el) return; el.textContent = msg || ''; el.classList.toggle('err', !!err); }
   function aiOn(){ return !!HS.CFG.key; }
@@ -22,7 +22,7 @@
   Array.prototype.forEach.call(document.querySelectorAll('[data-go]'), function(b){ b.addEventListener('click', function(){ show(b.dataset.go); }); });
 
   function render(tab){
-    ({ teaching: HS.renderTeaching, materials: HS.renderMaterials, source: renderSource, script: renderScript, video: renderVideo, story: renderStory, map: renderMap, board: renderBoard, chalk: renderChalk, upload: HS.renderUpload, lesson: HS.renderLesson, shots: HS.renderShots, settings: renderSettings })[tab]();
+    ({ studio: HS.renderSceneStudio, teaching: HS.renderTeaching, materials: HS.renderMaterials, source: renderSource, script: renderScript, video: renderVideo, story: renderStory, map: renderMap, board: renderBoard, chalk: renderChalk, upload: HS.renderUpload, lesson: HS.renderLesson, shots: HS.renderShots, settings: renderSettings })[tab]();
   }
   HS.onChange(function(what){ if(what === 'all') { $('proj-title').value = P().title || ''; render(current); drawProjects(); } });
 
@@ -884,10 +884,10 @@
   HS.ready.then(function(){
     $('proj-title').value = P().title || '';
     drawProjects();
-    var startTab='teaching';
-    try{startTab=localStorage.getItem('hs.tab')||'teaching';}catch(e){}
-    if(startTab==='materials')startTab='teaching';
-    show(document.getElementById('tab-'+startTab)?startTab:'teaching');
+    var startTab='studio';
+    try{startTab=localStorage.getItem('hs.tab')||'studio';}catch(e){}
+    if(startTab==='materials'||startTab==='teaching')startTab='studio';
+    show(document.getElementById('tab-'+startTab)?startTab:'studio');
     document.body.setAttribute('data-ready', '1');
   });
   // 웹 글꼴이 늦게 오면 캔버스를 다시 그립니다

diff --git a/assets/app.js b/assets/app.js
@@ -176,8 +176,8 @@
   };
   HS.snapshot = function(label, required){
     var p = HS.project;
-    if(!p.scenes.length) return Promise.resolve(); // 대본이 없으면 되돌릴 것도 없습니다
-    var snap = { at: new Date().toISOString(), label: label, title: p.title, scenes: p.scenes.length, project: JSON.parse(JSON.stringify(p)) };
+    if(!p.scenes.length && !(p.studio && p.studio.slides.length)) return Promise.resolve(); // 대본이 없으면 되돌릴 것도 없습니다
+    var snap = { at: new Date().toISOString(), label: label, title: p.title, scenes: p.studio&&p.studio.slides.length ? p.studio.slides.length : p.scenes.length, project: JSON.parse(JSON.stringify(p)) };
     return HS.snapshots().then(function(h){
       h.unshift(snap);
       return idbPut('history:' + p.id, h.slice(0, SNAP_MAX));

diff --git a/README.md b/README.md
@@ -1,32 +1,25 @@
-# 사관 스튜디오 — 역사 영상 자료 제작 도구
+# 사관 스튜디오 — 한 장면씩 만드는 강의 슬라이드
 
-**완성된 대본을 넣고, 필요한 자료 목록을 검토·확정한 뒤 삽화·이미지·지도 PNG와 스토리 PPT·판서 자료를 각각 만드는 도구**입니다.
+**대본을 의미 단위로 나누고, 한 장면을 글·판서·이미지 슬라이드 한 장으로 채우며 사람이 검토하는 도구**입니다.
 
-맥에서 **`사관 스튜디오 실행.command`를 더블클릭**하면 **강의 자료 작업실**에서 시작합니다. 이곳이 앱의 메인입니다. 자동 그림 제작 없이 쓰려면 `index.html`을 직접 열어도 됩니다. 기존 보조 도구에서 작업 중이었다면 마지막 화면을 이어 엽니다. 기본 제작 흐름에는 API 키가 필요 없습니다.
+맥에서 **사관 스튜디오 실행.command**를 더블클릭해 엽니다. 기본 화면은 **강의 자료 작업실**입니다. Codex 의미 분석과 이미지 생성은 ChatGPT 구독 로그인과 로컬 서버를 사용하며 유료 API로 전환하지 않습니다. 파일로 직접 열 때는 문단 초안과 직접 편집·사진 불러오기·저장을 사용할 수 있습니다.
 
-![강의 자료 작업실 시작 화면](docs/teaching-home.png)
+![강의 자료 작업실](docs/studio-home.png)
 
 ## 지금 쓰는 순서
 
-1. **완성 대본 넣기** — 원고를 붙여 넣거나 TXT 파일로 넣습니다. **명량대첩 원고 예시**에는 선생님이 제공한 원고 전체가 들어 있습니다.
-2. **제작 목록 제안받기** — 원고 표현을 보존하며 자료 구간을 나눕니다. 일반 원고는 문단·인용·지명 규칙으로 초안을 만들고, 명량 예시는 13구간의 맞춤 기획을 제공합니다. AI가 사실 검증한 결과는 아닙니다.
-3. 항목별 **만들기 여부, 종류, 그림 수(1~3장), 제작 지시, 판서 내용**을 수정합니다. 원고 보기에서 근거 구간을 확인할 수 있습니다. 인용문·출처·비교표·지도 지명도 고칠 수 있습니다.
-4. 필요하면 **구독 AI로 기획 다듬기 → 요청서 받기**를 눌러 ZIP을 Codex·ChatGPT에 전달합니다. AI가 돌려준 `plan.json`을 불러온 뒤 다시 검토합니다. 원고·구간 ID가 다른 파일은 거절하고 원고 자체는 바꾸지 않습니다.
-5. **이 목록으로 확정** — 이때 장면과 판서가 구성됩니다. 기존 자료를 대체할 때는 안내하고 되돌리기 기록을 남깁니다. 원고나 목록을 수정하면 재확정이 필요합니다.
-6. **Codex로 그림 자동 제작 → 한 장 먼저 만들기** — 로컬 CLI가 구독으로 생성하고 앱에 자동으로 넣습니다. 미리보기를 확인한 뒤 **남은 그림 만들기**를 누르세요. 직접 파일로 연 경우에는 기존 **그림 주문서 받기 → 만든 그림 불러오기**를 사용합니다.
-7. **자료별 받기** — 아래 버튼으로 필요한 것만 내려받습니다.
+1. **대본 입력** — 최대 12,000자. 기존 프로젝트 대본을 가져오거나 명량 예시로 시작할 수 있습니다.
+2. **Codex로 의미 단위 분석** — 설명 주제·사건·전환점에 따라 장면과 표현 방식을 제안합니다. 원문 범위로 연결해 누락·중복을 검사합니다. 인터넷 연결 없이 쓰는 **문단 초안**은 AI 의미 분석이 아닙니다.
+3. **장면 구분 검토** — 장면별 원고와 나눈 이유를 확인합니다. 원고의 커서 위치에서 나누거나 다음 장면과 합칩니다. 이때 해당 장면의 슬라이드 내용은 비우며 변경 전 복원 기록을 남깁니다.
+4. **구분 확정 → 장면 만들기** — 한 장면을 정확히 한 슬라이드로 봅니다. 글은 핵심 문장, 판서는 개념·흐름을 직접 다듬습니다. 이미지는 지시를 적고 **이 장면만 Codex로 생성**하거나 사진을 넣습니다. 다른 장면은 자동 생성하지 않습니다.
+5. **검토 완료하고 다음 장면** — 원고·미리보기·역사적 표현·출처를 확인합니다. 내용을 바꾸면 검토 대기로 돌아갑니다. 다시 생성한 그림의 이전 후보는 최대 3개 보관합니다.
+6. **저장** — 모든 장면을 검토 완료하면 PNG ZIP 또는 PPT를 받습니다. 장면이 10개면 PNG 10장, PPT 10슬라이드입니다. 현재 장면만 PNG로 받을 수도 있습니다. 원고·출처는 ZIP 목록과 PPT 발표자 노트에 남습니다.
 
-| 자료 | 결과 |
-|---|---|
-| 삽화·이미지 | 완료한 그림만 1920×1080 PNG ZIP. 다시 그리기 항목은 제외 |
-| 지도 | 등록 지명의 위치 참고 지도 PNG ZIP. 근거 없는 이동 경로·해류·전투 배치·시대별 영토는 생성하지 않음 |
-| 인용·비교 | 원고 인용문과 비교표 PNG ZIP. 번역문·숫자·출처는 검토 필요 |
-| 스토리 PPT | 표지＋선택한 각 구간의 삽화 중심 슬라이드. 해당 원고는 발표자 노트에 그대로 포함. 그림이 없으면 **초안·삽화 대기** 표시 |
-| 판서 | 검토한 핵심어·인과관계·정리 내용을 PNG ZIP 또는 편집 가능한 글자의 PPT로 저장 |
+![장면 만들기](docs/studio-compose.png)
 
-명량 예시의 기본 제안은 **삽화 11장, 위치 지도 1장, 인용문 3장, 비교표 1장, 판서 13장**입니다. 수량과 내용은 확정 전에 바꿀 수 있습니다.
+PNG는 1920×1080이고 PPT는 동일한 화면을 이미지로 넣습니다(슬라이드 안의 글자는 PowerPoint에서 개별 편집되지 않음). 편집은 앱에서 한 뒤 다시 저장하세요. 분석과 AI 그림은 초안이므로 역사적 정확성은 직접 확인해야 합니다.
 
-![자료 목록 검토](docs/materials-plan.png)
+기존 자료·지도·판서·그림 주문서 작업은 **이전 자료 편집**, **대본·제작 목록** 등에 보존됩니다. 새 장면 슬라이드는 별도 상태로 저장하므로 기존 자료를 자동으로 덮어쓰지 않습니다. 프로젝트 백업에는 새 장면 작업도 포함됩니다. 상단 되돌리기는 기록 시점의 프로젝트 전체를 복원합니다.
 
 ## 기존 세부 도구
 
@@ -200,7 +193,7 @@ CLI의 네이티브 이미지 도구 지원과 구독 사용량에 따라 제작
 
 화면은 왼쪽의 **제작 워크스페이스**와 **보조 도구**로 나뉩니다. 위쪽에서 프로젝트를 고르고, 자료 제작 화면의 **대본 입력 → 목록 검토 → 자료 제작** 표시로 현재 단계를 확인하세요. 휴대폰에서는 도구 메뉴를 가로로 밀어 선택합니다. 밝은 테마와 어두운 테마 모두 지원합니다.
 
-## 강의 자료 작업실 — 채널 분석 반영
+## 이전 자료 작업실 — 채널 분석 반영
 
 **강의 자료 작업실**에 대본을 붙여 넣고 제작 목록을 제안받으세요. 목록 검토·확정은 **대본·제작 목록**에서 합니다. 확정한 뒤 작업실로 돌아와 구간별 자료를 편집합니다. 기존 대본으로도 사용할 수 있습니다.
 

diff --git a/AGENTS.md b/AGENTS.md
@@ -25,7 +25,8 @@ Never rewrite older entries; correct them in a new entry.
 
 ## What this is
 A static web app that helps a Korean high-school history teacher make history YouTube videos.
-Primary workflow: finished narration → editable material proposal → explicit user confirmation →
+Primary workflow: narration → Codex semantic scene boundaries → human split/merge review → one slide per scene (text/board/image) → human approval → PNG/PPT.
+Legacy material workflow remains: finished narration → editable material proposal → explicit user confirmation →
 local Codex CLI generation/preview or subscription image order/import, separate illustration/map/quote/comparison/board PNG ZIPs, story PPTX and board PPTX.
 The user prefers Codex/ChatGPT subscriptions, not paid API automation. Do not rewrite finished narration or generate
 all illustrations before the proposal is confirmed. Video rendering is a secondary legacy tool.
@@ -46,7 +47,7 @@ This repo was started from the same author's 어전회의 (eojeon) project and f
 ```
 npm run setup     # npm install + npx playwright install chromium (needs internet)
 npm run check     # syntax of every script + index.html script list (offline, a second)
-npm test          # node tests/e2e.mjs — 81 Playwright tests (Chromium runs with a fake microphone);
+npm test          # node tests/e2e.mjs — 83 Playwright tests (Chromium runs with a fake microphone);
                   # Claude / OpenAI / Gemini / YouTube oEmbed are all mocked, so no keys or network are needed
 ```
 Codex sandboxes usually have no network while the agent runs: do `npm run setup` in the environment's setup
@@ -151,7 +152,7 @@ Drawing code sizes things by `Math.min(w, h) / 720` so the same code serves 16:9
 - `exportTeachingPack`: snapshots selected scenes and map; exports ready base, optional title, marks and crop PNGs + JSON/TXT source manifest with skipped reasons. `exportTeachingPptx`: selected scenes must all be ready, same sequence, right speaker space, editable caption, full narration/source notes. Existing storyboard exports remain available separately.
 - Reconfirming material plans preserves teaching settings for matching material IDs with unchanged narration. Changing imagery invalidates annotations by fingerprint. A stale material plan blocks exports.
 - `docs/CHANNEL_ANALYSIS.md`: observational sample of all 10 public videos, not whole-channel full-duration viewing or historical fact validation.
-- `TEST_FILTER='강의 자료:' npm test` runs the focused teaching tests. Full `npm test` still required before committing (now 81 cases).
+- `TEST_FILTER='강의 자료:' npm test` runs the focused teaching tests. Full `npm test` still required before committing (now 83 cases).
 
 - Teaching readiness is metadata-based (image decode still happens at preview/export). `checkedBasis` binds the user source confirmation to the rendered source; changed sources are unverified. Explicit missing shot selections never fall back to unrelated scene images. `tools/screens.mjs` also captures the teaching readiness UI.
 
@@ -159,4 +160,11 @@ Drawing code sizes things by `Math.min(w, h) / 720` so the same code serves 16:9
 
 - `HS.replaceTeachingImage(scene,image)` requires an undo snapshot before replacing/removing an uploaded photo and clearing its credit. Snapshot failure or concurrent project/settings edits leave the existing photo untouched. UI uploads use a revision token so earlier reads cannot replace newer selections.
 
-- Teaching is the default main workspace. Legacy saved `materials` opens teaching; other saved tabs still resume. Empty projects accept a script in teaching, then hand off to the existing proposal/review/explicit-confirm flow. Scene navigation, original narration/brief, readiness filters/search and expected PNG count are workspace UI state; filtering never changes export selection.
+- Legacy teaching remains available in `teaching`; the current main is `studio`. Legacy saved `materials`/`teaching` opens studio; other saved tabs still resume. Empty projects accept a script in teaching, then hand off to the existing proposal/review/explicit-confirm flow. Scene navigation, original narration/brief, readiness filters/search and expected PNG count are workspace UI state; filtering never changes export selection.
+
+## Scene-by-scene studio (current main)
+- `assets/scene-studio.js` / `scene-studio-ui.js`, tab `studio`, are the main authoring flow. `project.studio={script,analyzedScript,method,mode(input|review|compose),backMode?,slides[]}` is independent of legacy scenes/materials. Slides store id,start,end (exact contiguous original offsets),title,reason,type(text|board|image),content,prompt,image,imagePrompt,credit,reviewed,candidates (max3). Backups/undo retain this state; snapshot handles projects with studio slides only.
+- Semantic analysis sends numbered sentence units to the existing CLI bridge with kind=analysis. Model outputs increasing inclusive 1-based end unit indices, titles/reasons/types/content/prompts. Client validates full coverage and bounds atomically; original narration is never rewritten. Paragraph fallback is explicitly labeled non-AI. Max12000 chars,500 units,80 slides. Split/merge only in review; affected slides reset with undo.
+- Composition is one scene/one slide. Review binds to content fingerprint. Changes invalidate review. Image generation affects only the selected scene, requires explicit click, and rejects stale project/slide completion. Archives remain available via local bridge. All slides must be reviewed for whole-deck PNG/PPT exports; one raster slide each, narration in notes.
+- `/api/jobs` accepts kind image(default)|analysis; same token/origin checks, serial execution and cancellation. Analysis uses result.json in isolated CLI workspace; archives `output/codex-plans`. Image behavior is preserved. `npm run test:cli` required for server changes (3 tests currently).
+- Real short-narration CLI analysis verified this turn; image UI bridge tested with fake generator, not a newly generated actual image.

diff --git a/docs/HANDOFF.md b/docs/HANDOFF.md
@@ -26,6 +26,32 @@ Codex와 Claude Code가 번갈아 이 프로젝트를 고칩니다. **작업을 
 
 ## 기록
 
+### 2026-09-26 · Codex · codex/teaching-materials (의미 단위·장면별 슬라이드 개편)
+
+**한 일**
+- 메인을 대본 입력 → Codex 의미 단위 분석 → 사람이 장면 경계 검토 → 장면 만들기 → 장면별 검토 완료 → 저장 흐름으로 개편했습니다.
+- 분석은 원문 문장 단위의 끝 번호를 반환하게 하고 누락·겹침·잘못된 범위를 검증합니다. 원문은 바꾸지 않습니다. 연결 없는 문단 초안은 AI 분석이 아니라고 표시합니다.
+- 장면별 원고·구분 이유를 보며 커서 위치에서 나누거나 다음 장면과 합칠 수 있습니다. 영향받은 슬라이드 내용은 비우고 변경 전 복원 기록을 남깁니다.
+- 장면 하나를 글·판서·AI 이미지 중 하나로 채웁니다. Codex 이미지는 선택한 장면만 생성하며, 이전 그림 후보 3개·직접 사진 넣기·출처 메모를 지원합니다.
+- 검토 완료는 내용과 연결되어 수정하면 해제됩니다. 전체 출력은 모든 장면의 검토 완료 후 가능하며, 장면당 PNG 한 장·PPT 한 슬라이드입니다. 원고·출처는 ZIP 목록/PPT 노트에 넣습니다.
+- 새 project.studio 상태는 기존 장면/자료와 별도로 보존하고 백업·되돌리기에 포함합니다. 기존 도구는 이전 자료 편집에서 사용할 수 있습니다.
+- CLI 분석 작업 종류와 JSON 보관을 추가했습니다. 진행 중 생성이 없는 것을 확인한 뒤 로컬 서버를 최신 코드로 갱신했습니다. 이전 미병합 작업 브랜치에서 이어서 작업했습니다.
+
+**확인한 것**
+- npm run check: 32개 파일 통과. npm test: 83/83 통과. npm run test:cli: 3/3 통과(이미지 생성기는 모의).
+- 실제 ChatGPT 구독 Codex CLI에 짧은 역사 대본을 보내 패전·재건·지형 활용 세 의미 장면의 JSON 결과를 받았습니다. 결과를 실제 HTTP 앱에 적용해 장면별 검토 후 PNG/PPT 출력까지 확인했습니다.
+- 원문 경계/분할/합치기/누락 거절/검토 무효화/새로고침 저장/기존 장면 없이 되돌리기/한 장면 한 PNG·PPT를 검사했습니다. 390px 가로 넘침도 검사했습니다.
+- npm run screens로 분석·검토·편집 화면을 촬영해 확인했고, 실제 분석으로 만든 1920×1080 PNG도 열어 확인했습니다.
+
+**확인하지 못한 것 · 알려진 문제**
+- 이번 작업에서 실제 AI 이미지를 새로 생성하지 않았습니다. 새 장면 이미지 연결은 모의 PNG로 시험했고, 실제 의미 분석만 구독 CLI로 확인했습니다.
+- 모든 역사 대본의 의미 분할 품질을 보증하는 기능은 아닙니다. 분석·역사 표현은 사람이 검토해야 합니다. 최대 12,000자·500문장 단위·80장면이며 더 긴 원고는 나누어 사용합니다.
+- PPT는 슬라이드 화면을 이미지로 넣습니다. 개별 글자 편집은 앱에서 해야 합니다. 실제 PowerPoint 앱·Safari/Firefox·실제 휴대폰 기기에서는 확인하지 않았습니다.
+- 새로고침 중 CLI 작업 자동 복구 제한은 유지됩니다. 분석 결과는 output/codex-plans, 생성 이미지는 output/codex-images에 보관합니다.
+
+**다음 할 일**
+- 선생님 실제 대본의 의미 분할과 이미지 지시를 검토해 결과를 다듬고, 브랜치를 검토해 main에 병합합니다.
+
 ### 2026-09-26 · Codex · codex/teaching-materials (메인 작업실 구체화)
 
 **한 일**
